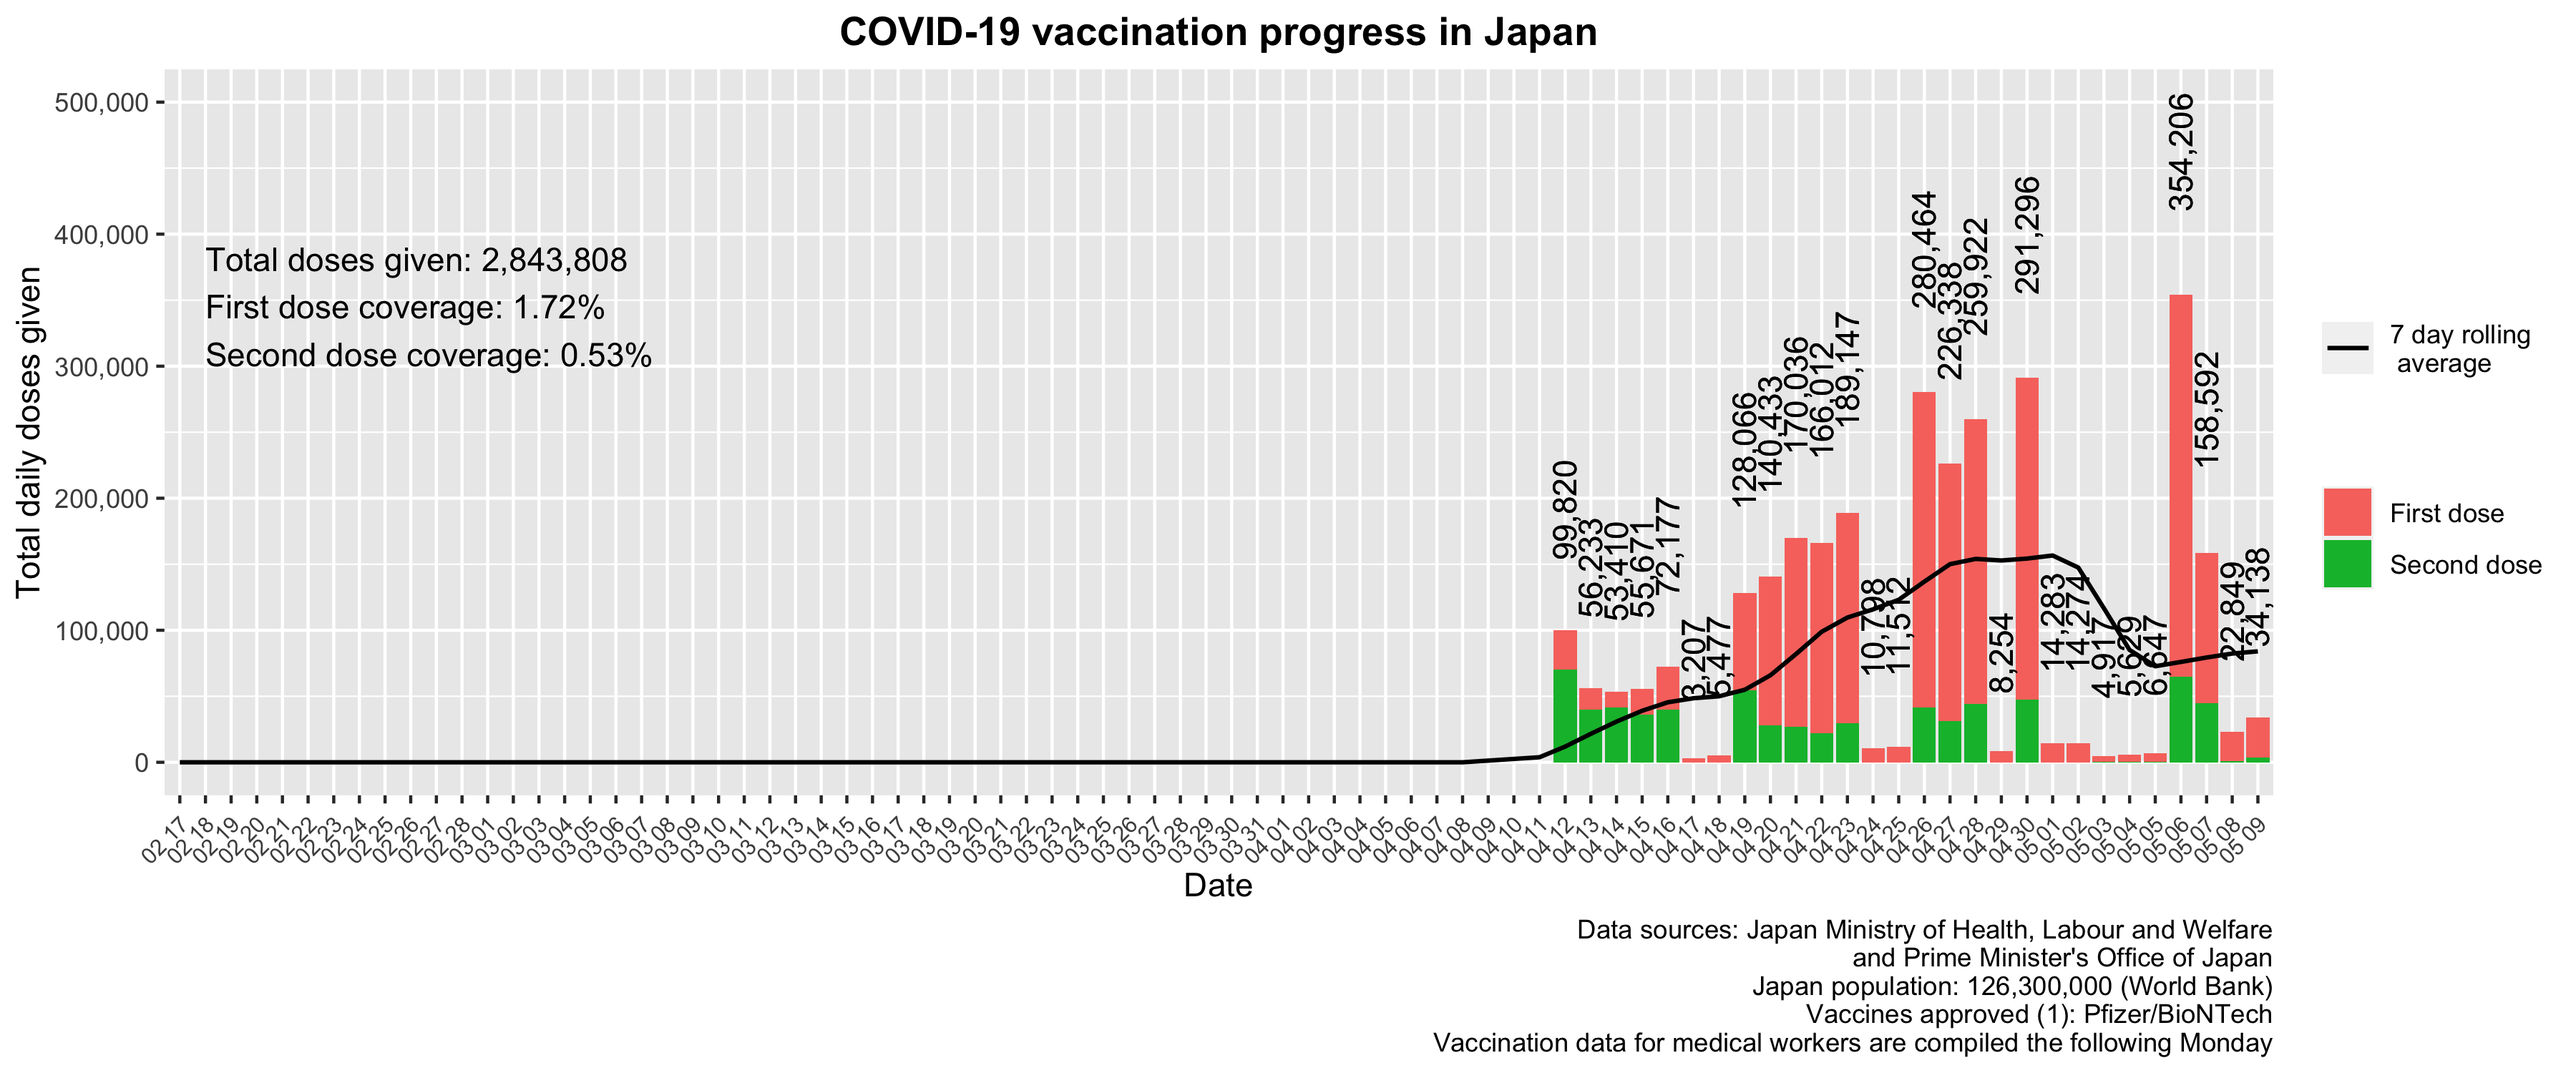
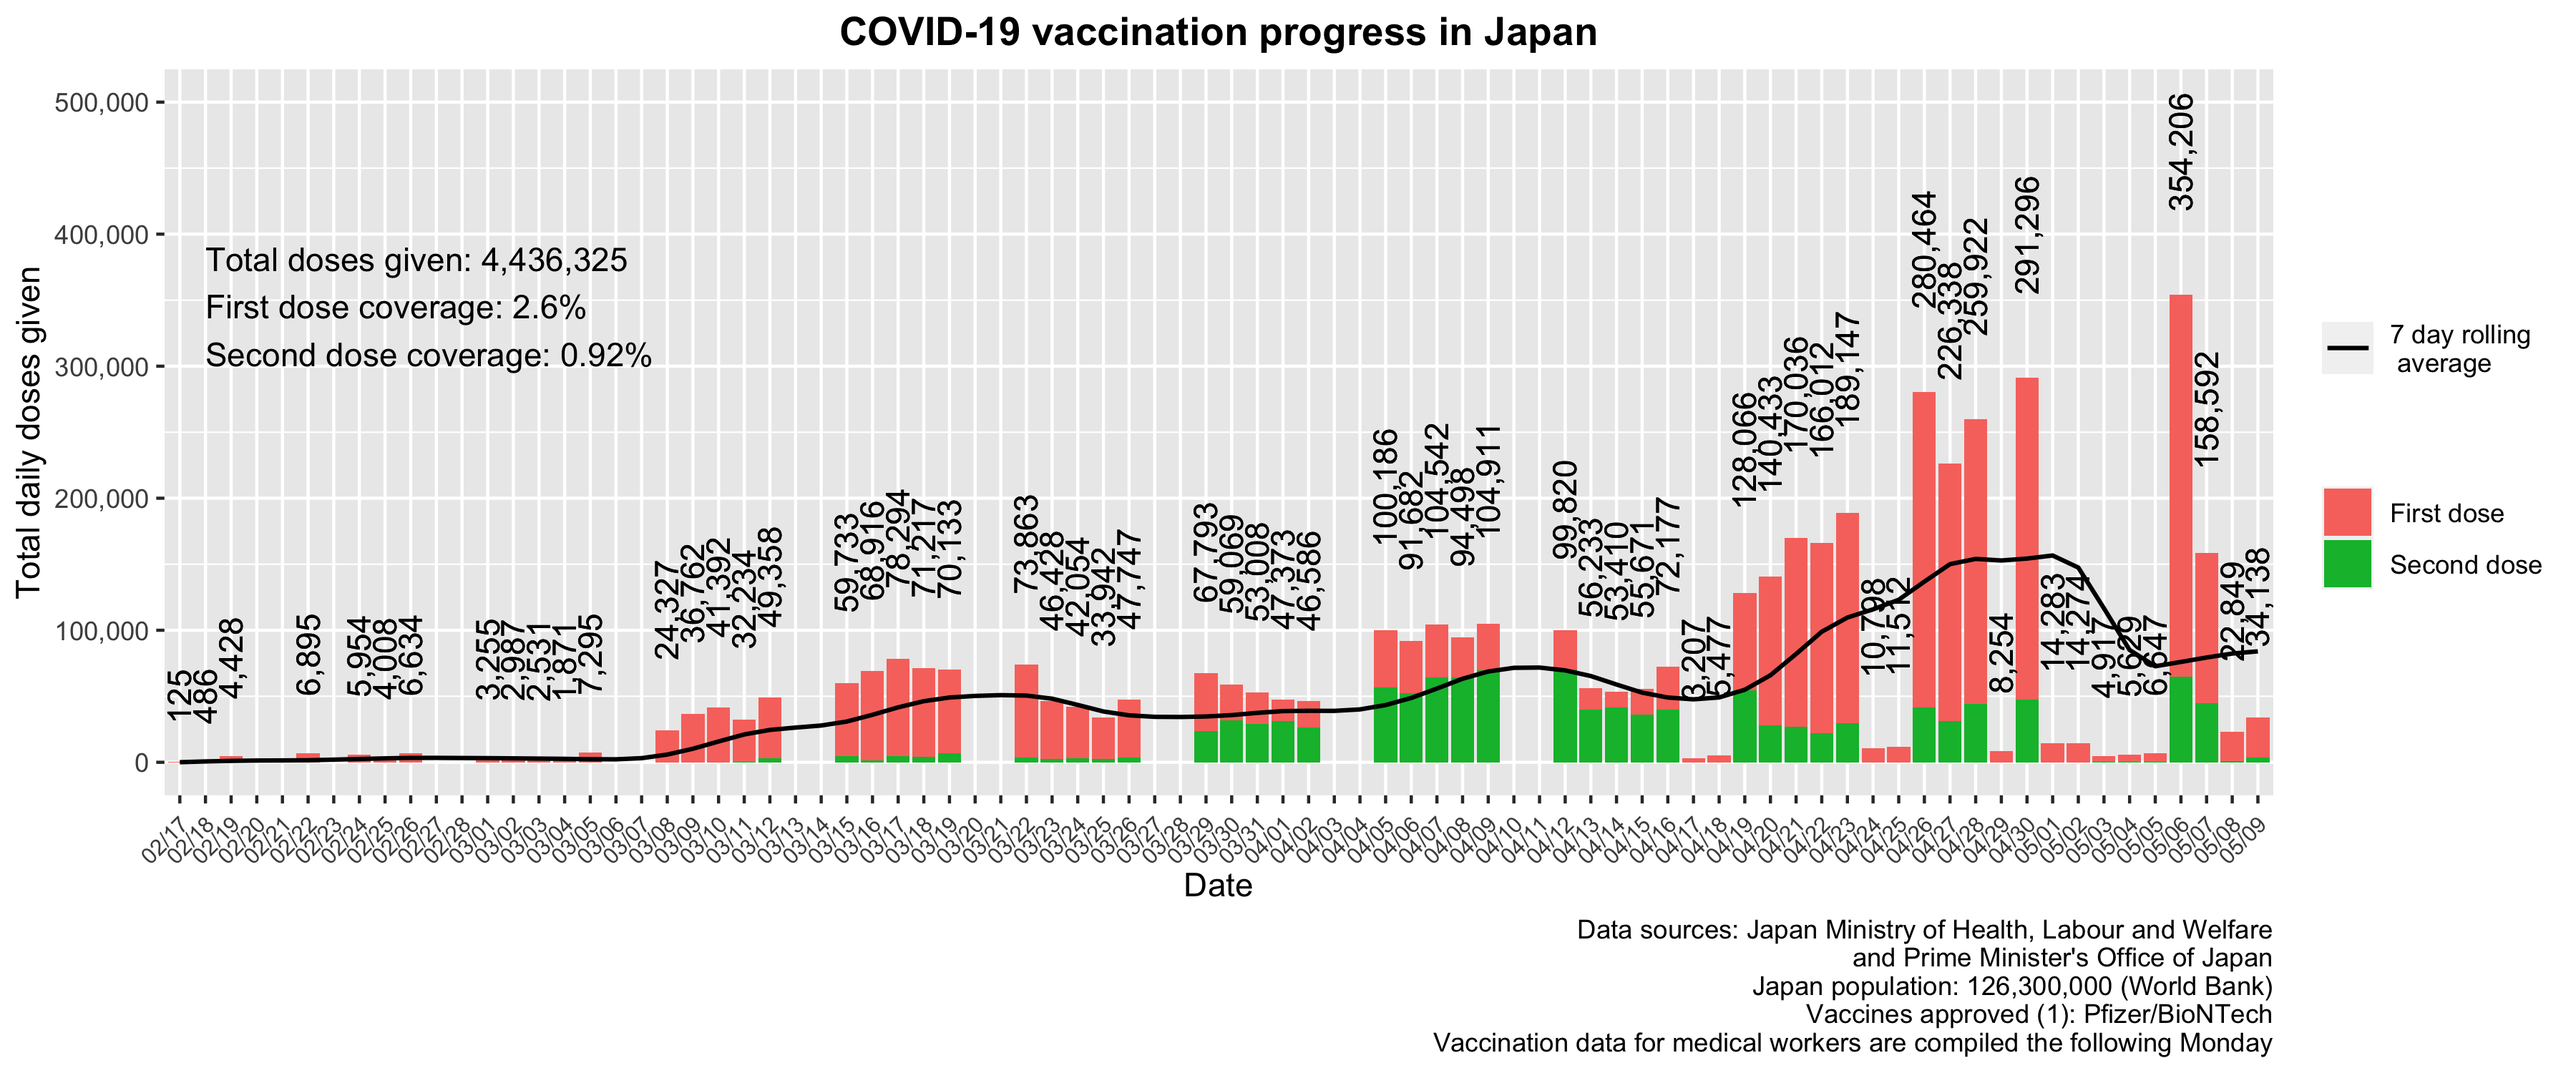
Updated 2021-05-10

diff --git a/japan_vaccine_data.py b/japan_vaccine_data.py
@@ -41,14 +41,14 @@ for line in medical_workers_file:
 	if "2021" in line:
 		data_date, day, daily_total_medical, daily_first_shot_medical, daily_second_shot_medical = line.rstrip().split(",")
 		date_time = datetime.strptime(data_date, '%Y/%m/%d')
-		new_date = datetime.strftime(date_time, '%m %d')
+		new_date = datetime.strftime(date_time, '%m/%d')
 		coordinated_vaccine_data[new_date] = [int(daily_total_medical), int(daily_first_shot_medical), int(daily_second_shot_medical)]
 
 for line in elderly_file:
 	if "2021" in line:
 		data_date, day, daily_total_elderly, daily_first_shot_elderly, daily_second_shot_elderly = line.rstrip().split(",")
 		date_time = datetime.strptime(data_date, '%Y/%m/%d')
-		new_date = datetime.strftime(date_time, '%m %d')
+		new_date = datetime.strftime(date_time, '%m/%d')
 		if new_date not in coordinated_vaccine_data:
 			coordinated_vaccine_data[new_date] = [0, 0, 0]
 		daily_total_comma = "{:,}".format(int(daily_total_elderly)+coordinated_vaccine_data[new_date][0])
@@ -60,6 +60,8 @@ for line in elderly_file:
 
 for line in MHLW_data_file:
 	new_date, daily_total, daily_first_shots, daily_second_shots, daily_total_comma = line.rstrip().split("\t")
+	old_date = datetime.strptime(new_date, '%a, %b %d')
+	new_date = datetime.strftime(old_date, '%m/%d')
 	coordinated_vaccine_data[new_date] = [int(daily_total), int(daily_first_shots), int(daily_second_shots), daily_total_comma]
 
 
@@ -72,7 +74,7 @@ date_list = []
 
 for i in range(delta.days):
 	day = sdate + timedelta(days=i)
-	new_format = datetime.strftime(day, '%m %d')
+	new_format = datetime.strftime(day, '%m/%d')
 	date_list += [new_format]
 
 for day in date_list:
